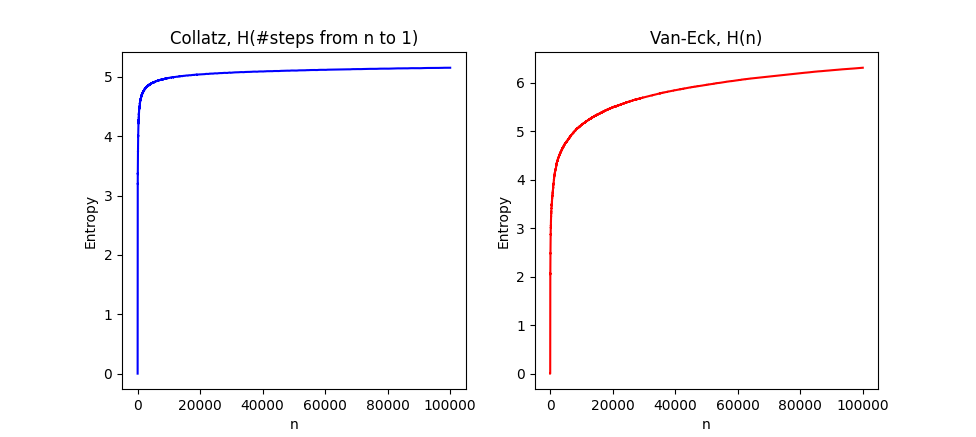
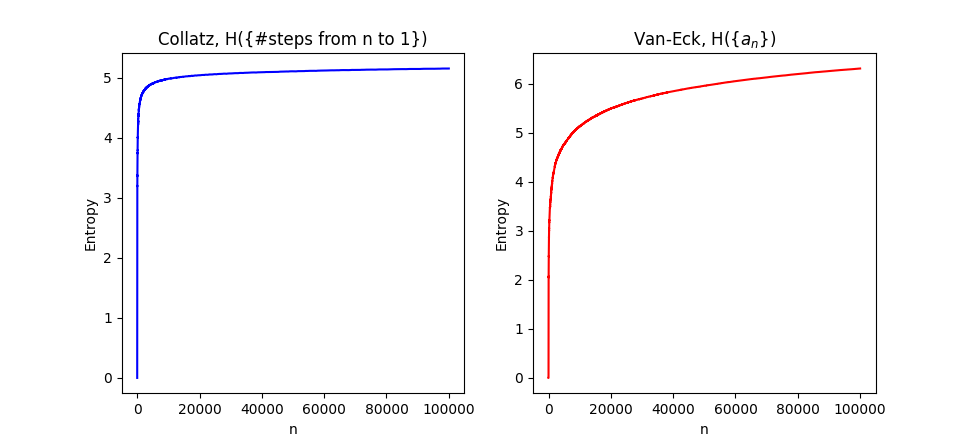
Fix figure titles.

diff --git a/main.py b/main.py
@@ -93,7 +93,7 @@ if __name__ == '__main__':
     plt.subplot(121)
     plt.ylabel("Entropy")
     plt.xlabel("n")
-    plt.title('Collatz, H(#steps from n to 1)')
+    plt.title('Collatz, H({#steps from n to 1})')
     plt.plot(h, 'b')
 
     h1 = pd.read_csv("entropy_b181391.txt")["entropy"].to_numpy()
@@ -101,7 +101,7 @@ if __name__ == '__main__':
     plt.subplot(122)
     plt.ylabel("Entropy")
     plt.xlabel("n")
-    plt.title('Van-Eck, H(n)')
+    plt.title(r'Van-Eck, H({$a_{n}$})')
     plt.plot(h1, 'r')
 
     plt.show()
